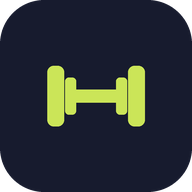
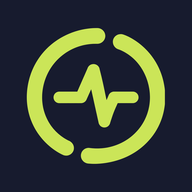
update

diff --git a/index.html b/index.html
@@ -1154,6 +1154,26 @@
   .connect-status.linked { background: rgba(92,122,31,0.14); color: var(--green); }
 
   /* ══════════ Workout timer card (inline, sits under the last exercise) ══════════ */
+  /* Timer sits in the day band, not in a card of its own at the foot of the page. */
+  .timer-strip {
+    margin-top: 14px;
+    padding-top: 13px;
+    border-top: 1px solid var(--border);
+  }
+  .timer-strip-row {
+    display: flex;
+    align-items: center;
+    justify-content: space-between;
+    gap: 12px;
+  }
+  .timer-strip .timer-display { font-size: 23px; line-height: 1.1; }
+  .timer-strip .timer-actions { flex: 1; max-width: 230px; }
+  .timer-strip .timer-btn { padding: 10px 12px; font-size: 12.5px; }
+  .timer-strip .timer-logged-msg { margin-top: 9px; }
+  @media (max-width: 360px) {
+    .timer-strip-row { flex-direction: column; align-items: stretch; gap: 10px; }
+    .timer-strip .timer-actions { max-width: none; }
+  }
   .timer-card {
     margin: 0 16px 12px;
     background: var(--bg-card);
@@ -1661,12 +1681,12 @@
 <div class="page-header">
   <div class="header-top">
     <a href="https://asbfmckay.github.io/home" class="home-icon" aria-label="Home">
-      <svg viewBox="0 0 24 24" xmlns="http://www.w3.org/2000/svg">
-        <rect x="7.5" y="10.6" width="9" height="2.8" rx="0.4" fill="var(--lime)"/>
-        <rect x="1.5" y="5.5" width="3.6" height="13" rx="1.4" fill="var(--lime)"/>
-        <rect x="18.9" y="5.5" width="3.6" height="13" rx="1.4" fill="var(--lime)"/>
-        <rect x="5.3" y="8" width="2.4" height="8" rx="0.8" fill="var(--lime)"/>
-        <rect x="16.3" y="8" width="2.4" height="8" rx="0.8" fill="var(--lime)"/>
+      <svg viewBox="0 0 24 24" xmlns="http://www.w3.org/2000/svg" fill="none"
+           stroke="var(--lime)" stroke-linecap="round">
+        <path d="M 8.75 18.59 A 7.56 7.56 0 0 1 13.38 4.34" stroke-width="2.1"/>
+        <path d="M 15.25 4.95 A 7.56 7.56 0 0 1 10.62 19.20" stroke-width="2.1"/>
+        <path d="M 6.95 12.17 H 9.60 L 11.30 7.95 L 12.75 15.55 L 13.60 12.17 H 17.05"
+              stroke-width="1.42" stroke-linejoin="round"/>
       </svg>
     </a>
     <span class="header-eyebrow">Health &amp; Fitness</span>
@@ -1695,6 +1715,18 @@
     <button class="day-btn" onclick="showDay('thu',this)"><span class="dn">THU</span><span class="df">Core &amp;<br>Cardio</span></button>
     <button class="day-btn" onclick="showDay('fri',this)"><span class="dn">FRI</span><span class="df">Full Body<br>HIIT</span></button>
   </div>
+</div>
+
+<!-- Lives inside the active day's header band; moved there by showDay(). -->
+<div class="timer-strip" id="timer-strip">
+  <div class="timer-strip-row">
+    <div>
+      <div class="timer-label">Workout Timer</div>
+      <div class="timer-display" id="timer-display">00:00</div>
+    </div>
+    <div class="timer-actions" id="timer-actions"></div>
+  </div>
+  <div class="timer-logged-msg" id="timer-logged-msg">✓ Session logged</div>
 </div>
 
 <!-- ══════════ MON ══════════ -->
@@ -2082,16 +2114,6 @@
   </div>
 </div>
 <!-- ══════════ END TRAINING DAYS ══════════ -->
-
-<div class="section-label">Log This Session</div>
-<div class="timer-card">
-  <div class="timer-top-row">
-    <div class="timer-label">Workout Timer</div>
-    <div class="timer-display" id="timer-display">00:00</div>
-  </div>
-  <div class="timer-actions" id="timer-actions"></div>
-  <div class="timer-logged-msg" id="timer-logged-msg">✓ Session logged</div>
-</div>
 
 <div class="settings-link-wrap">
   <button class="settings-link" onclick="showPage('settings')">
@@ -2539,6 +2561,15 @@ function showDay(id, btn) {
   document.querySelectorAll('.day-btn').forEach(el => el.classList.remove('active'));
   document.getElementById('day-' + id).classList.add('active');
   btn.classList.add('active');
+  placeTimer();
+}
+/* Put the timer inside the day band you are looking at, under the day's meta line.
+   Moving the one element keeps a single timer-display / timer-actions pair, so the
+   session code needs no changes and a running timer survives switching days. */
+function placeTimer() {
+  const strip = document.getElementById('timer-strip');
+  const head = document.querySelector('.day-view.active .day-header');
+  if (strip && head && strip.parentElement !== head) head.appendChild(strip);
 }
 
 /* Measure where the chat card actually starts and give it exactly the rest of the
@@ -2985,6 +3016,7 @@ function initTrackers() {
   initFitnessStats();
   initResultsLog();
   initTimer();
+  placeTimer();          // seat it in Monday's band on first load
   initCoach();
   renderWeek();
   renderFoodGroups();
